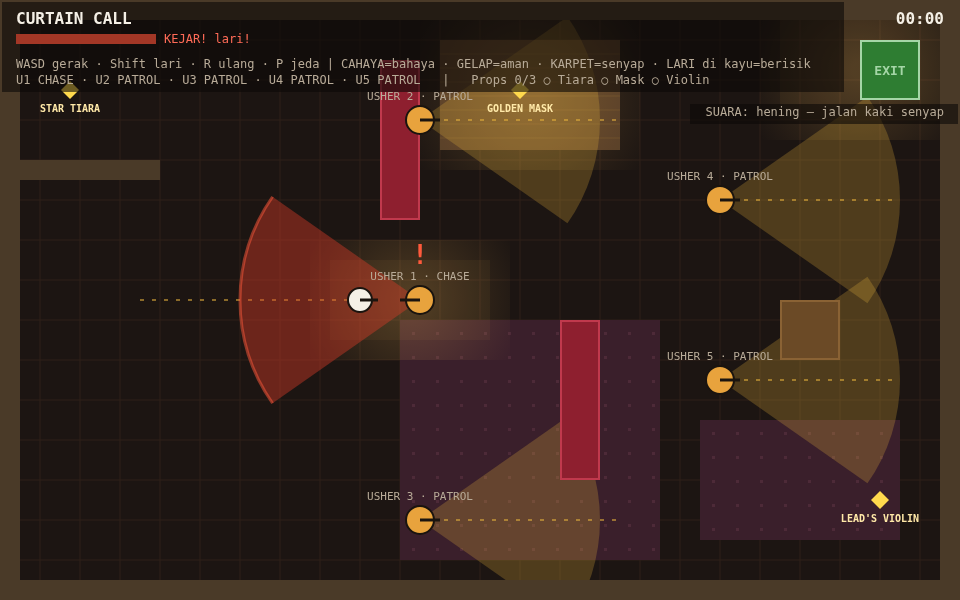
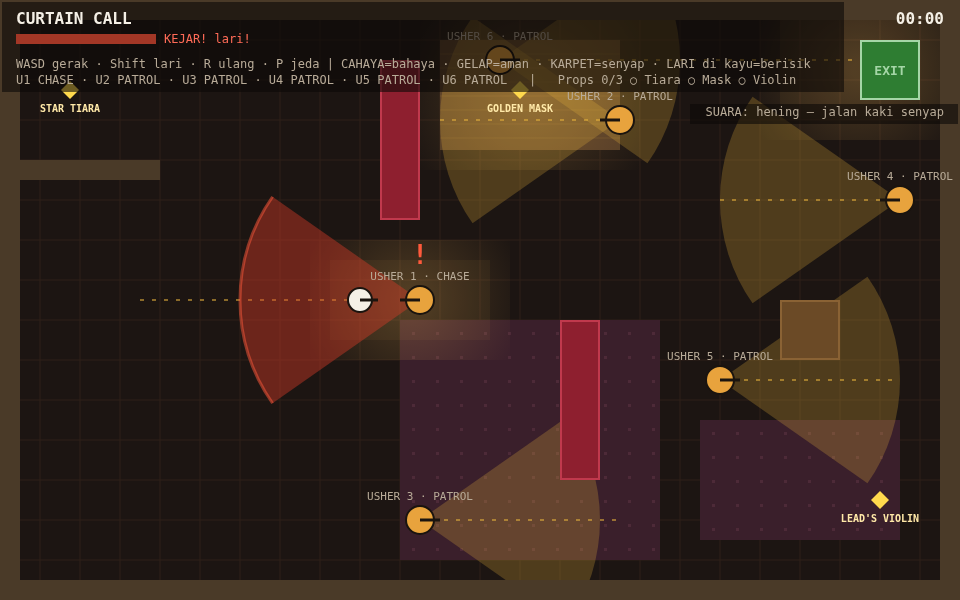
M7: add USHER 6 (top-strip patrol) + revert U3 stagger
- USHER 6 patrols y=60, x 500-900: closes the top-wall highway the
  naive probe exploited (M5/M6 GHOST win 9.9s, exposure 0)
- U3 back to start (420,520) facing east, waypoints 420-620: M6
  stagger regressed the Foyer teach (exposure 0.34) and carpet run
- tests: m7.test.js (6 new: U6 behaviour, U3 revert, stagger kept);
  m3/m6 count assertions updated to 6 ushers
- probes: naive loses at 8.5s (U6 chase, det 1); timed route wins
  17.2s GHOST (det 0, exp 0.46); 4 screenshots retaken, dossier
  2x byte-identical

Changed region(s): [[0.6875, 0.18, 1.0, 0.51], [0.375, 0.06, 0.8125, 0.36], [0.4688, 0.03, 0.5, 0.06]]

diff --git a/tests/m7.test.js b/tests/m7.test.js
@@ -1,0 +1,129 @@
+// M7 tests — written FIRST (TDD RED), before any M7 production code.
+// Parent decision (final): revert stagger U3 ONLY (back to start west,
+// facing east) + add USHER 6 patrolling the top strip (y=60, x 500-900)
+// to close the top-wall highway the naive probe exploited (M6 §4.2:
+// the strip is geometrically immune to horizontal cones from y=120/200).
+// Run: node --test tests/m7.test.js
+import { test } from 'node:test';
+import assert from 'node:assert/strict';
+import CONFIG from '../game/src/config.js';
+import { buildLevel } from '../game/src/level.js';
+import { canSee } from '../game/src/vision.js';
+import { createWorld, step } from '../game/src/world.js';
+
+function stepN(world, input, seconds, dt = 0.05) {
+  const n = Math.round(seconds / dt);
+  for (let i = 0; i < n; i++) step(world, input, dt);
+}
+const IDLE = { x: 0, y: 0, run: false };
+
+// Circle vs axis-aligned rect (same rule as world.js circleHitsRect).
+function circleHitsRect(cx, cy, r, rect) {
+  const nx = Math.max(rect.x, Math.min(cx, rect.x + rect.w));
+  const ny = Math.max(rect.y, Math.min(cy, rect.y + rect.h));
+  const dx = cx - nx;
+  const dy = cy - ny;
+  return dx * dx + dy * dy < r * r;
+}
+
+// --- decision 2: USHER 6 guards the top strip ---
+
+test('m7: level has 6 ushers incl. USHER 6 on the top strip (y=60, x 500-900)', () => {
+  const level = buildLevel();
+  assert.equal(level.guards.length, 6);
+  assert.deepEqual(
+    level.guards.map((g) => g.name),
+    ['USHER 1', 'USHER 2', 'USHER 3', 'USHER 4', 'USHER 5', 'USHER 6'],
+  );
+  const u6 = level.guards[5];
+  assert.deepEqual(u6.waypoints, [{ x: 500, y: 60 }, { x: 900, y: 60 }]);
+  // West starter like U1/U5: starts at the west waypoint, facing east.
+  assert.equal(u6.x, 500, 'USHER 6 must start at its west waypoint');
+  assert.equal(u6.y, 60);
+  // No dir override in the spec — createGuard's default east applies.
+  assert.equal(u6.dir, undefined, 'no dir override in the spec');
+  assert.deepEqual(
+    createWorld().guards[5].dir, { x: 1, y: 0 },
+    'USHER 6 must start facing east (createGuard default)',
+  );
+});
+
+test('m7: USHER 6 walks — moves more than 50px within 3s of patrol', () => {
+  const world = createWorld();
+  assert.equal(world.guards.length, 6, 'needs the 6th guard first');
+  const u6 = world.guards[5];
+  const startX = u6.x;
+  stepN(world, IDLE, 3);
+  assert.ok(
+    u6.x - startX > 50,
+    `USHER 6 stuck or walking west: x ${startX} -> ${u6.x} after 3s`,
+  );
+});
+
+test('m7: USHER 6 sees a player ahead of it on the top strip (the highway case)', () => {
+  const world = createWorld();
+  assert.equal(world.guards.length, 6, 'needs the 6th guard first');
+  const u6 = world.guards[5];
+  const blockers = world.walls.concat(world.covers);
+  // Guard on its route, facing east; player on the top wall ahead of it.
+  u6.x = 700; u6.y = 60; u6.dir = { x: 1, y: 0 };
+  world.player.x = 800; world.player.y = 32; // hugging the top wall
+  assert.equal(
+    canSee(u6, world.player, blockers).seen, true,
+    'player on the top wall ahead of USHER 6 must be seen',
+  );
+  world.player.x = 800; world.player.y = 60; // same strip, same line
+  assert.equal(
+    canSee(u6, world.player, blockers).seen, true,
+    'player on the strip ahead of USHER 6 must be seen',
+  );
+  // Negative control: player BEHIND the guard is not seen.
+  world.player.x = 600; world.player.y = 60;
+  assert.equal(
+    canSee(u6, world.player, blockers).seen, false,
+    'player behind USHER 6 must not be seen',
+  );
+});
+
+test('m7: USHER 6 route is clear of covers and does not seal the exit', () => {
+  const level = buildLevel();
+  const u6 = level.guards[5];
+  assert.ok(u6, 'needs the 6th guard first');
+  // Spawn + both waypoints clear of every cover (guard radius).
+  for (const p of [{ x: u6.x, y: u6.y }, ...u6.waypoints]) {
+    for (const cover of level.covers) {
+      assert.equal(
+        circleHitsRect(p.x, p.y, CONFIG.GUARD_R, cover),
+        false,
+        `USHER 6 point (${p.x},${p.y}) overlaps ${cover.kind} cover`,
+      );
+    }
+  }
+  // The east waypoint (900,60) sits inside the exit rect (860,40,60,60),
+  // but the exit stays enterable: a player circle at the exit's
+  // south-west corner (870,90) must not overlap the guard standing there.
+  const dist = Math.hypot(870 - 900, 90 - 60);
+  assert.ok(
+    dist >= CONFIG.GUARD_R + CONFIG.PLAYER_R,
+    `exit sealed: guard at east waypoint is ${dist}px from the entry corner`,
+  );
+});
+
+// --- decision 1: revert stagger U3 ONLY (U2/U4 stagger stays) ---
+
+test('m7: USHER 3 reverted — starts west (420,520) facing east', () => {
+  const world = createWorld();
+  const u3 = world.guards[2];
+  assert.equal(u3.x, 420, 'USHER 3 must start at its west waypoint again');
+  assert.equal(u3.y, 520);
+  assert.equal(u3.dir.x, 1, 'USHER 3 must start facing east again');
+});
+
+test('m7: stagger U2/U4 kept — still start east facing west', () => {
+  const world = createWorld();
+  const [, u2, , u4] = world.guards;
+  assert.equal(u2.x, 620, 'USHER 2 stagger must stay');
+  assert.equal(u2.dir.x, -1, 'USHER 2 must still start facing west');
+  assert.equal(u4.x, 900, 'USHER 4 stagger must stay');
+  assert.equal(u4.dir.x, -1, 'USHER 4 must still start facing west');
+});

diff --git a/tests/m6.test.js b/tests/m6.test.js
@@ -1,0 +1,90 @@
+// M6 tests — written FIRST (TDD RED), before any M6 production code.
+// Parent playtest found: USHER 2 stuck at spawn (waypoint overlapping
+// curtain A) + all patrols starting in sync, so a naive diagonal player
+// won GHOST in 9.9s with exposure 0. Fix: U2 waypoints clear of the
+// curtain + U2/U3/U4 staggered (start east, facing west).
+// Run: node --test tests/m6.test.js
+import { test } from 'node:test';
+import assert from 'node:assert/strict';
+import CONFIG from '../game/src/config.js';
+import { buildLevel } from '../game/src/level.js';
+import { createWorld, step } from '../game/src/world.js';
+
+function stepN(world, input, seconds, dt = 0.05) {
+  const n = Math.round(seconds / dt);
+  for (let i = 0; i < n; i++) step(world, input, dt);
+}
+const IDLE = { x: 0, y: 0, run: false };
+
+// Circle vs axis-aligned rect (same rule as world.js circleHitsRect).
+function circleHitsRect(cx, cy, r, rect) {
+  const nx = Math.max(rect.x, Math.min(cx, rect.x + rect.w));
+  const ny = Math.max(rect.y, Math.min(cy, rect.y + rect.h));
+  const dx = cx - nx;
+  const dy = cy - ny;
+  return dx * dx + dy * dy < r * r;
+}
+
+// --- fix 1: USHER 2 must actually walk (was stuck at x=420 forever) ---
+
+test('m6: USHER 2 walks — moves more than 50px within 3s of patrol', () => {
+  const world = createWorld();
+  const u2 = world.guards[1];
+  const startX = u2.x;
+  stepN(world, IDLE, 3);
+  assert.ok(
+    Math.abs(u2.x - startX) > 50,
+    `USHER 2 stuck: x ${startX} -> ${u2.x} after 3s (was 420 -> 420 before fix)`,
+  );
+});
+
+// --- fix 2: patrol phases staggered, not all starting west facing east ---
+
+test('m6: patrol staggered — U2/U4 start east facing west, U1/U5 start west facing east', () => {
+  const world = createWorld();
+  const [u1, u2, u3, u4, u5] = world.guards;
+  // East starters (waypoint 1 of their route), facing back west.
+  assert.equal(u2.x, 620, 'USHER 2 must start at its east waypoint');
+  assert.equal(u2.dir.x, -1, 'USHER 2 must start facing west');
+  assert.equal(u4.x, 900, 'USHER 4 must start at its east waypoint');
+  assert.equal(u4.dir.x, -1, 'USHER 4 must start facing west');
+  // M7: USHER 3 stagger REVERTED by parent decision (it broke the
+  // Foyer teach contract) — U3 starts west facing east again.
+  assert.equal(u3.x, 420, 'USHER 3 must start at its west waypoint (M7 revert)');
+  assert.equal(u3.dir.x, 1, 'USHER 3 must start facing east (M7 revert)');
+  // West starters unchanged.
+  assert.equal(u1.dir.x, 1, 'USHER 1 still starts facing east');
+  assert.equal(u5.dir.x, 1, 'USHER 5 still starts facing east');
+  // Not all in sync: east starters are not at the west end.
+  assert.ok(u2.x !== u1.x && u4.x !== u1.x);
+});
+
+// --- fix 1 geometry: no guard spawns overlapping a cover (the U2 bug) ---
+
+test('m6: no guard spawns overlapping a cover', () => {
+  const level = buildLevel();
+  for (const guard of level.guards) {
+    for (const cover of level.covers) {
+      assert.equal(
+        circleHitsRect(guard.x, guard.y, CONFIG.GUARD_R, cover),
+        false,
+        `${guard.name} spawns overlapping ${cover.kind} cover at (${cover.x},${cover.y})`,
+      );
+    }
+  }
+});
+
+test('m6: every patrol waypoint is clear of every cover (guard radius)', () => {
+  const level = buildLevel();
+  for (const guard of level.guards) {
+    for (const wp of guard.waypoints) {
+      for (const cover of level.covers) {
+        assert.equal(
+          circleHitsRect(wp.x, wp.y, CONFIG.GUARD_R, cover),
+          false,
+          `${guard.name} waypoint (${wp.x},${wp.y}) overlaps ${cover.kind} cover`,
+        );
+      }
+    }
+  }
+});

diff --git a/game/src/level.js b/game/src/level.js
@@ -34,28 +34,43 @@ export function buildLevel() {
       { id: 'mask', name: 'Golden Mask', x: 520, y: 90, taken: false },
       { id: 'violin', name: "Lead's Violin", x: 880, y: 500, taken: false },
     ],
-    // 1 Foyer + 2 Auditorium + 2 Backstage. Patrol routes never cross a
-    // cover (M2 debt: guards have no pathfinding, only collision).
+    // 1 Foyer + 2 Auditorium + 2 Backstage + 1 top strip (M7). Patrol
+    // routes never cross a cover (M2 debt: guards have no pathfinding,
+    // only collision).
+    // M6: U2's west waypoint moved 420 -> 440 (420-14 overlapped curtain
+    // A, so the guard waited blocked forever); U2/U4 stagger — they
+    // start at their EAST waypoint facing west, so the patrols are not
+    // one synchronized wave the player can outrun in a straight line.
+    // M7: U3 stagger REVERTED (parent decision — it broke the Foyer
+    // teach contract + the carpet-quiet test); U3 starts west again,
+    // facing east. USHER 6 added on the top strip (y=60, x 500-900)
+    // to close the top-wall highway (M6 §4.2): a player hugging the
+    // top wall now meets a horizontal cone on the same strip. U6
+    // starts west facing east, like U1/U5.
     guards: [
       {
         name: 'USHER 1', x: 140, y: 300,
         waypoints: [{ x: 140, y: 300 }, { x: 360, y: 300 }],
       },
       {
-        name: 'USHER 2', x: 420, y: 120,
-        waypoints: [{ x: 420, y: 120 }, { x: 620, y: 120 }],
+        name: 'USHER 2', x: 620, y: 120, dir: { x: -1, y: 0 },
+        waypoints: [{ x: 440, y: 120 }, { x: 620, y: 120 }],
       },
       {
         name: 'USHER 3', x: 420, y: 520,
         waypoints: [{ x: 420, y: 520 }, { x: 620, y: 520 }],
       },
       {
-        name: 'USHER 4', x: 720, y: 200,
+        name: 'USHER 4', x: 900, y: 200, dir: { x: -1, y: 0 },
         waypoints: [{ x: 720, y: 200 }, { x: 900, y: 200 }],
       },
       {
         name: 'USHER 5', x: 720, y: 380,
         waypoints: [{ x: 720, y: 380 }, { x: 900, y: 380 }],
+      },
+      {
+        name: 'USHER 6', x: 500, y: 60,
+        waypoints: [{ x: 500, y: 60 }, { x: 900, y: 60 }],
       },
     ],
     // Binary lighting (tesis differentiator 4): warm pools = danger

diff --git a/tests/m3.test.js b/tests/m3.test.js
@@ -20,12 +20,12 @@ const IDLE = { x: 0, y: 0, run: false };
 
 // --- level.js: structure ---
 
-test('level: 3 wings, 5 ushers, 3 props, exit, spawn', () => {
+test('level: 3 wings, 6 ushers, 3 props, exit, spawn', () => {
   const level = buildLevel();
-  assert.equal(level.guards.length, 5);
+  assert.equal(level.guards.length, 6);
   assert.deepEqual(
     level.guards.map((g) => g.name),
-    ['USHER 1', 'USHER 2', 'USHER 3', 'USHER 4', 'USHER 5'],
+    ['USHER 1', 'USHER 2', 'USHER 3', 'USHER 4', 'USHER 5', 'USHER 6'],
   );
   assert.equal(level.props.length, 3);
   assert.deepEqual(level.props.map((p) => p.id), ['tiara', 'mask', 'violin']);
@@ -99,12 +99,12 @@ test('detection: noise radius — running on wood 140, on carpet 40, walking sil
 
 // --- world.js: multi-guard ---
 
-test('world: 5 guards with names, guard alias kept for M1/M2 callers', () => {
+test('world: 6 guards with names, guard alias kept for M1/M2 callers', () => {
   const w = createWorld();
-  assert.equal(w.guards.length, 5);
+  assert.equal(w.guards.length, 6);
   assert.deepEqual(
     w.guards.map((g) => g.name),
-    ['USHER 1', 'USHER 2', 'USHER 3', 'USHER 4', 'USHER 5'],
+    ['USHER 1', 'USHER 2', 'USHER 3', 'USHER 4', 'USHER 5', 'USHER 6'],
   );
   assert.equal(w.guard, w.guards[0]);
   assert.equal(w.props.length, 3);

diff --git a/game/src/guard.js b/game/src/guard.js
@@ -7,11 +7,11 @@
 import CONFIG from './config.js';
 import { updateSuspicion } from './detection.js';
 
-export function createGuard({ x, y, waypoints, speed = CONFIG.GUARD_SPEED, name = 'USHER' }) {
+export function createGuard({ x, y, waypoints, speed = CONFIG.GUARD_SPEED, name = 'USHER', dir = { x: 1, y: 0 } }) {
   return {
-    name, // 'USHER 1' .. 'USHER 5' — set by world.js from the level spec
+    name, // 'USHER 1' .. 'USHER 6' — set by world.js from the level spec
     x, y, r: CONFIG.GUARD_R,
-    dir: { x: 1, y: 0 },
+    dir, // initial facing from the level spec (M6 stagger); default east
     waypoints, wpIndex: 1, // heading to waypoint 1 first
     speed,
     state: 'patrol', // 'patrol' | 'suspicious' | 'chase' | 'search'

diff --git a/game/src/world.js b/game/src/world.js
@@ -16,7 +16,7 @@ import {
 // Re-exported for callers that used the M1 location (moved to vision.js).
 export { segmentBlocked };
 
-// Level (level.js) + live state: 5 ushers, 3 props, rings, noise.
+// Level (level.js) + live state: 6 ushers, 3 props, rings, noise.
 export function createWorld() {
   const level = buildLevel();
   const guards = level.guards.map((spec) =>
